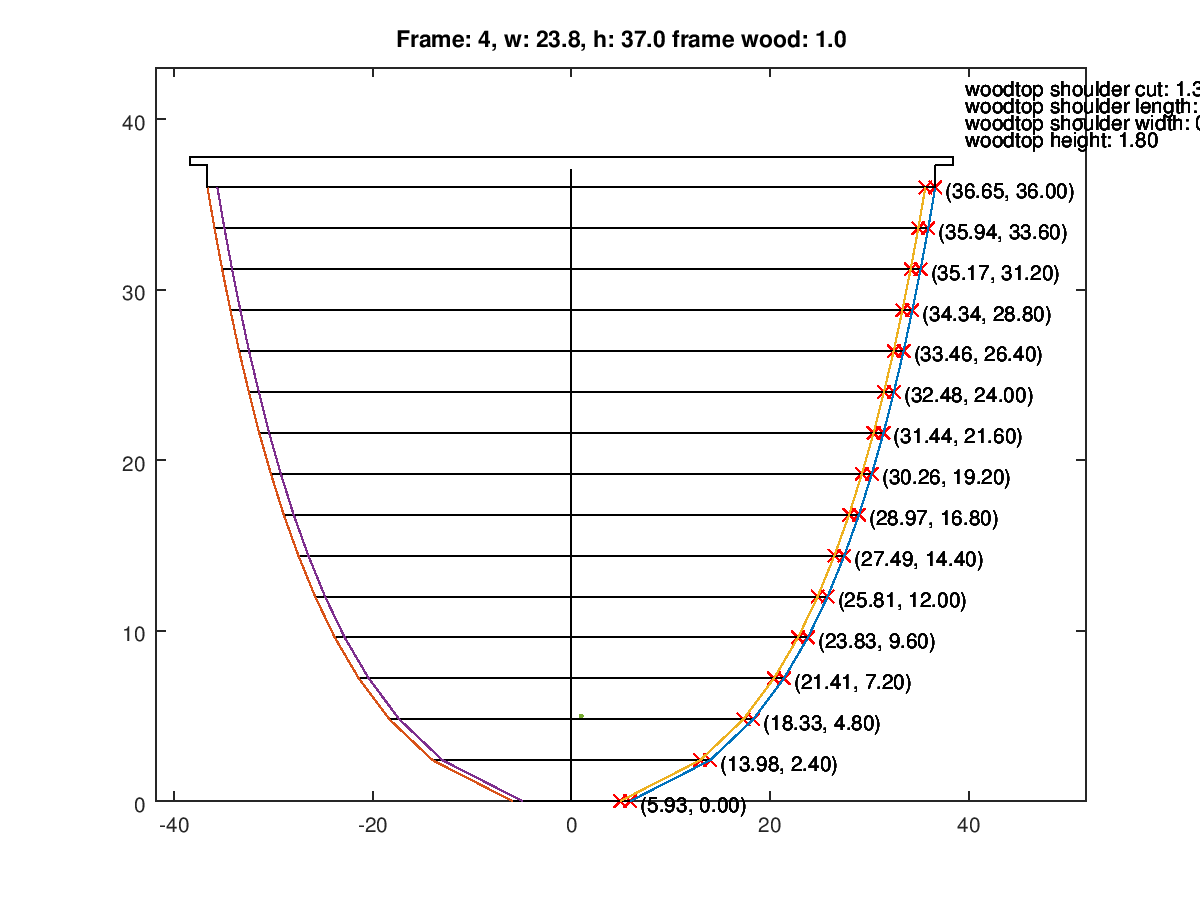
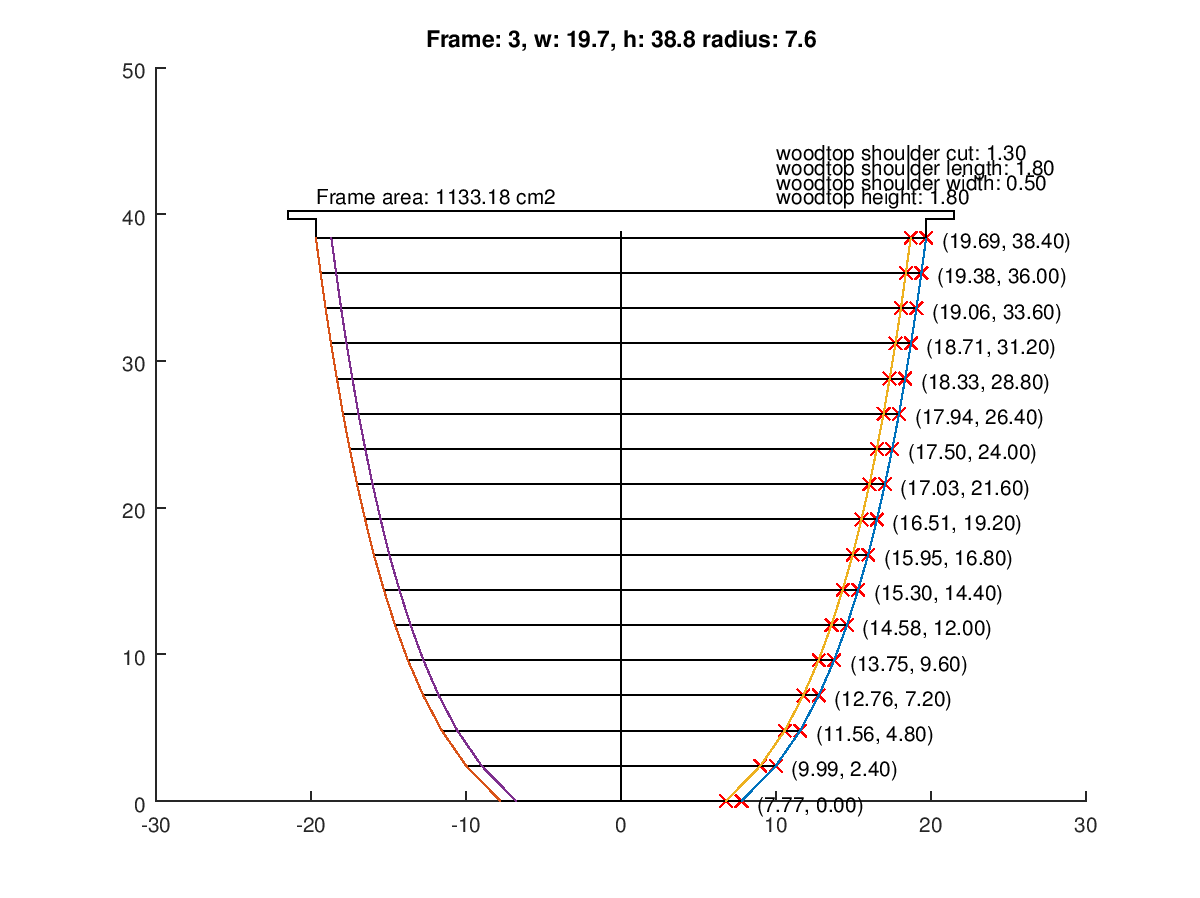
work in progress frames

diff --git a/Catenary3.m b/Catenary3.m
@@ -145,14 +145,22 @@ hold off;
 #selet the positiv values as the calculations are the same
 frames_height=frames_height(frames_height(:,2)>=0,:);
 
-# iterate through each distinct frame raduis (on top) and calculate the frame dimensions and area
+# 3.1 iterate through each distinct frame raduis (on top) and calculate the frame dimensions and area
 
 
 
 frames_sections = [];
 shrink_frame_width = 1.5;
 frame_wood_width  = 1;
-
+  #     -1.8-
+  # 0.5 ||||||||||  |
+  #          ||||| 1.8
+  #          |||||  |
+woodtop_height  = 1.8;
+woodtop_shoulder_width = 0.5;
+woodtop_shoulder = 1.8;
+woodtop_shoulder_cut = woodtop_shoulder - woodtop_shoulder_width ;
+total_area = 0;
 
 for i = length(frames_height):-1:1
   % find the circle bow length for each ring
@@ -160,7 +168,7 @@ for i = length(frames_height):-1:1
   cur_frame_height = frames_height(i,1);
   ring_index = length(rings); # ring from the top 
   top_ring = ring_index;
-
+  axis([-35 60 0 50]);; 
   
   while (ring_index>1) 
     cur_ring_radius = rings(ring_index,1);
@@ -172,10 +180,10 @@ for i = length(frames_height):-1:1
      # the frame exceeds the currrnt ring, we stop
       break
     else
-      frame_section_tmp =2*  pitagora(a=0, b = cur_frame_radius, c = cur_ring_radius)-shrink_frame_width;
+      frame_section_tmp =  pitagora(a=0, b = cur_frame_radius, c = cur_ring_radius)-shrink_frame_width;
     end
     
-    # add data into a vector for later use
+    # add frames section data into a vector for later use
     # structure: index of frame, cur_frame_height, cur_frame_radius, cur_ring_radius, frame_section
     frames_sections = [frames_sections, [i, frames_height(i,1), cur_frame_radius, cur_ring_radius, frame_section_tmp]];
     ring_index -=1; 
@@ -200,6 +208,7 @@ for i = length(unique_frames):-1:1
   countfig+=1;
   cur_frame = frames(frames(:,1)==i,:);
   cur_frame_height = cur_frame(1,2);
+  cur_frame_radius = cur_frame(1,3);
   fig = figure(countfig);
  
   hold on;
@@ -242,32 +251,20 @@ for i = length(unique_frames):-1:1
   # draw the frame inner margins
 
   plot(xtmp-frame_wood_width,ytmp);
-  plot(-xtmp+frame_wood_width,ytmp);   
-  
-  axis([-xtmp(1,5)-18 xtmp(1,5)+28 0 cur_frame_height+6]);;  
+  plot(-xtmp+frame_wood_width,ytmp);    
   
   # frame height vertical line
   line([0 0], [0 cur_frame_height]);
   cur_frame_maxwidth = xtmp(1,5);
-  
-#     -1.8-
-# 0.5 ||||||||||  |
-#          ||||| 1.8
-#          |||||  |
-woodtop_height  = 1.8;
-woodtop_shoulder_width = 0.5;
-woodtop_shoulder = 1.8;
-woodtop_shoulder_cut = woodtop_shoulder - woodtop_shoulder_width ;
+
+# dadant top bar dimensions
+  text( 10,  tmp_y+3, sprintf("woodtop height: %0.2f" ,woodtop_height));
+  text( 10,  tmp_y+4, sprintf("woodtop shoulder width: %0.2f" ,woodtop_shoulder_width));  
+  text( 10,  tmp_y+5, sprintf("woodtop shoulder length: %0.2f" ,woodtop_shoulder));  
+  text( 10,  tmp_y+6, sprintf("woodtop shoulder cut: %0.2f" ,woodtop_shoulder_cut));  
 
 #shoulder on the right
   line([tmp_x tmp_x], [tmp_y tmp_y+woodtop_shoulder_cut]);
-
-  text( tmp_x + 3,  tmp_y+3, sprintf("woodtop height: %0.2f" ,woodtop_height));
-  text( tmp_x + 3,  tmp_y+4, sprintf("woodtop shoulder width: %0.2f" ,woodtop_shoulder_width));  
-  text( tmp_x + 3,  tmp_y+5, sprintf("woodtop shoulder length: %0.2f" ,woodtop_shoulder));  
-  text( tmp_x + 3,  tmp_y+6, sprintf("woodtop shoulder cut: %0.2f" ,woodtop_shoulder_cut));  
-
-  
   line([tmp_x tmp_x+woodtop_shoulder], [tmp_y+woodtop_shoulder_cut tmp_y+woodtop_shoulder_cut]);   
   line([tmp_x+woodtop_shoulder tmp_x+woodtop_shoulder], 
     [tmp_y+woodtop_shoulder_cut tmp_y+woodtop_shoulder_cut+woodtop_shoulder_width]);  
@@ -283,12 +280,30 @@ woodtop_shoulder_cut = woodtop_shoulder - woodtop_shoulder_width ;
     [tmp_y+woodtop_shoulder_cut tmp_y+woodtop_shoulder_cut]);      
   line([-tmp_x -tmp_x], [tmp_y+woodtop_shoulder_cut tmp_y]);
   
-  title(sprintf("Frame: %0.0f, w: %0.1f, h: %0.1f frame wood: %0.1f",i,cur_frame_maxwidth,cur_frame_height,frame_wood_width));
+  title(sprintf("Frame: %0.0f, w: %0.1f, h: %0.1f radius: %0.1f",i,xtmp(length(xtmp)),cur_frame_height,cur_frame_radius));
+  hold off;
+  # calculate area by approximation = summing trapezoid segments areas
+  segm = length(ytmp);
+  frame_area = 0;
+  tmp_area = 0;
+  for i = segm:-1:2
+   segm_a = 2*(xtmp(i)-frame_wood_width);
+   segm_b = 2*(xtmp(i-1)-frame_wood_width);
+   segm_h = wood_width;
+   tmp_area = ((segm_a + segm_b)* segm_h) / 2
+   frame_area = frame_area + tmp_area;
+  end
+  text(-tmp_x ,  tmp_y+3, sprintf("Frame area: %0.2f cm2" ,frame_area));  
 
-# calculate area 
- 
-# save frames
- plot(figure(countfig))
- print(sprintf("Frame_%0.0f.jpg",i), '-dpng');
- hold off;
+
+
+  # save frames
+
+   print(sprintf("Frame_%0.0f.jpg",countfig-2), '-dpng');
+
+   
+   total_area +=frame_area;
 end
+
+total_area -=frame_area;
+disp(sprintf("Total_area: %0.0f.",total_area));
